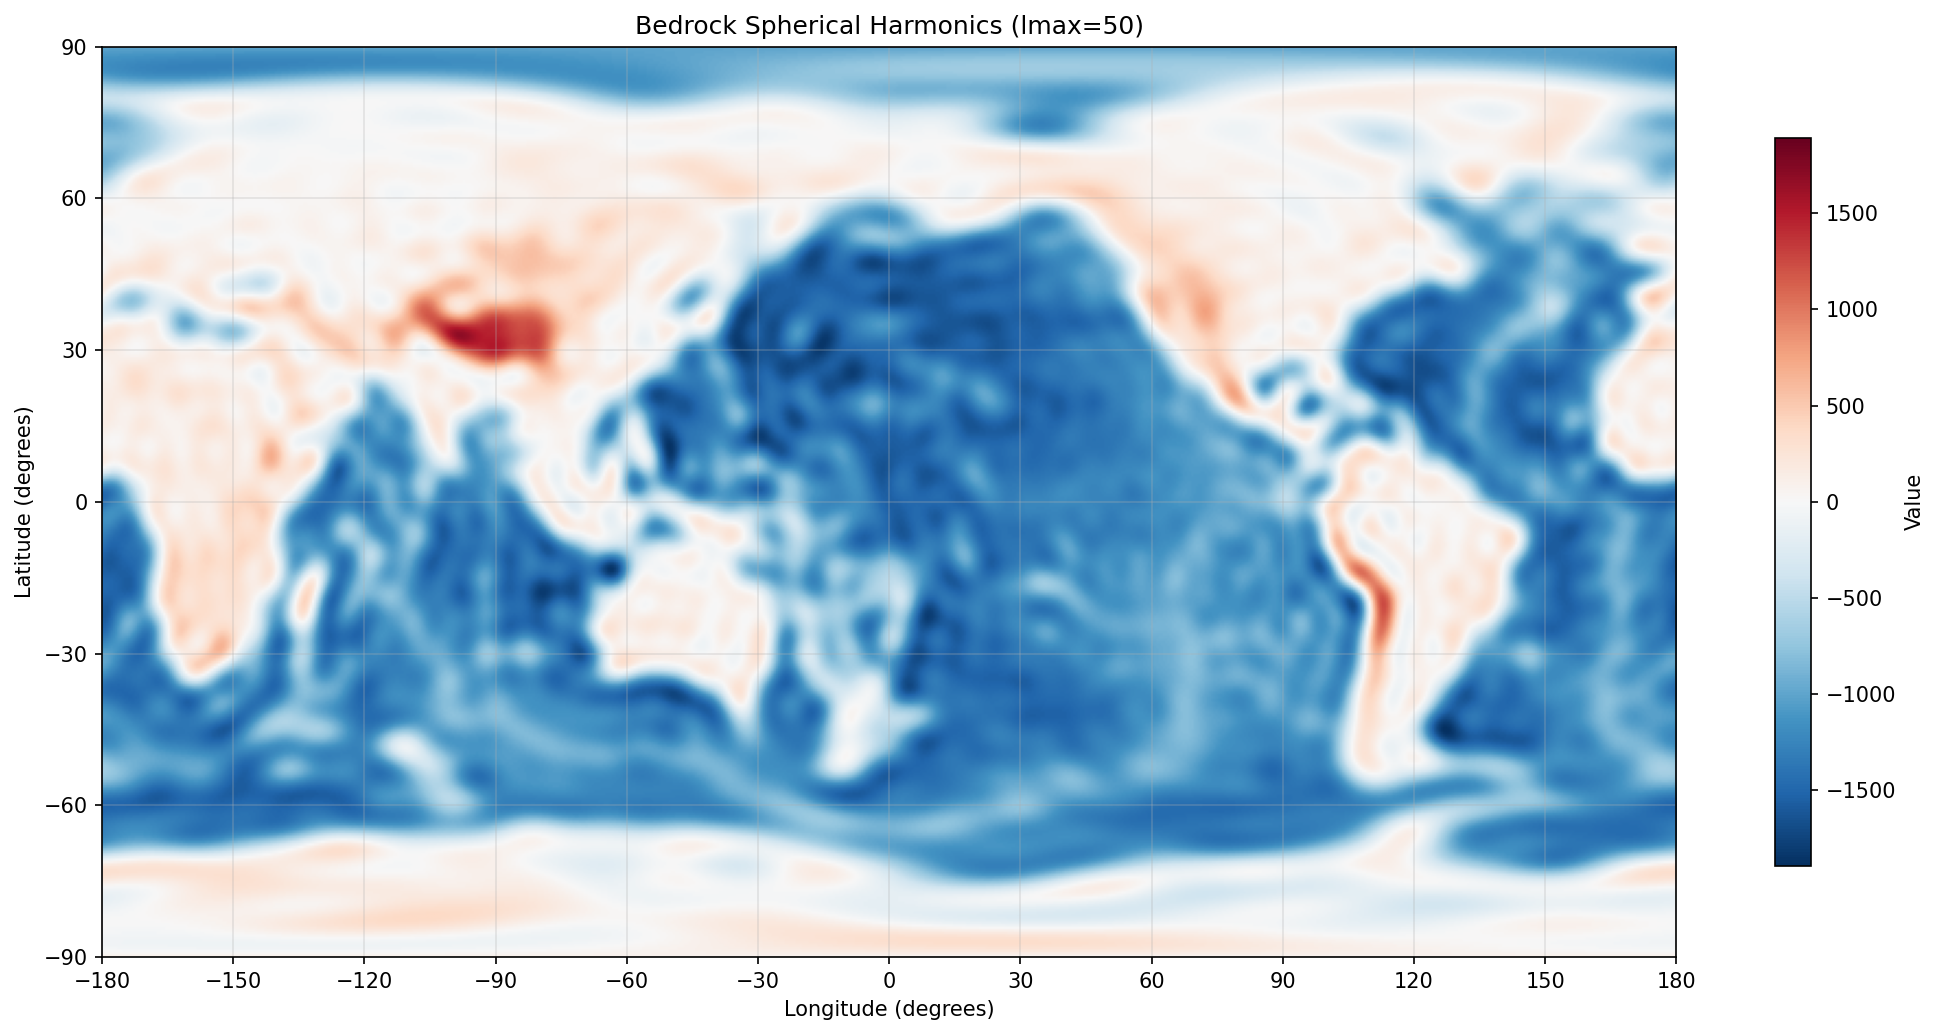
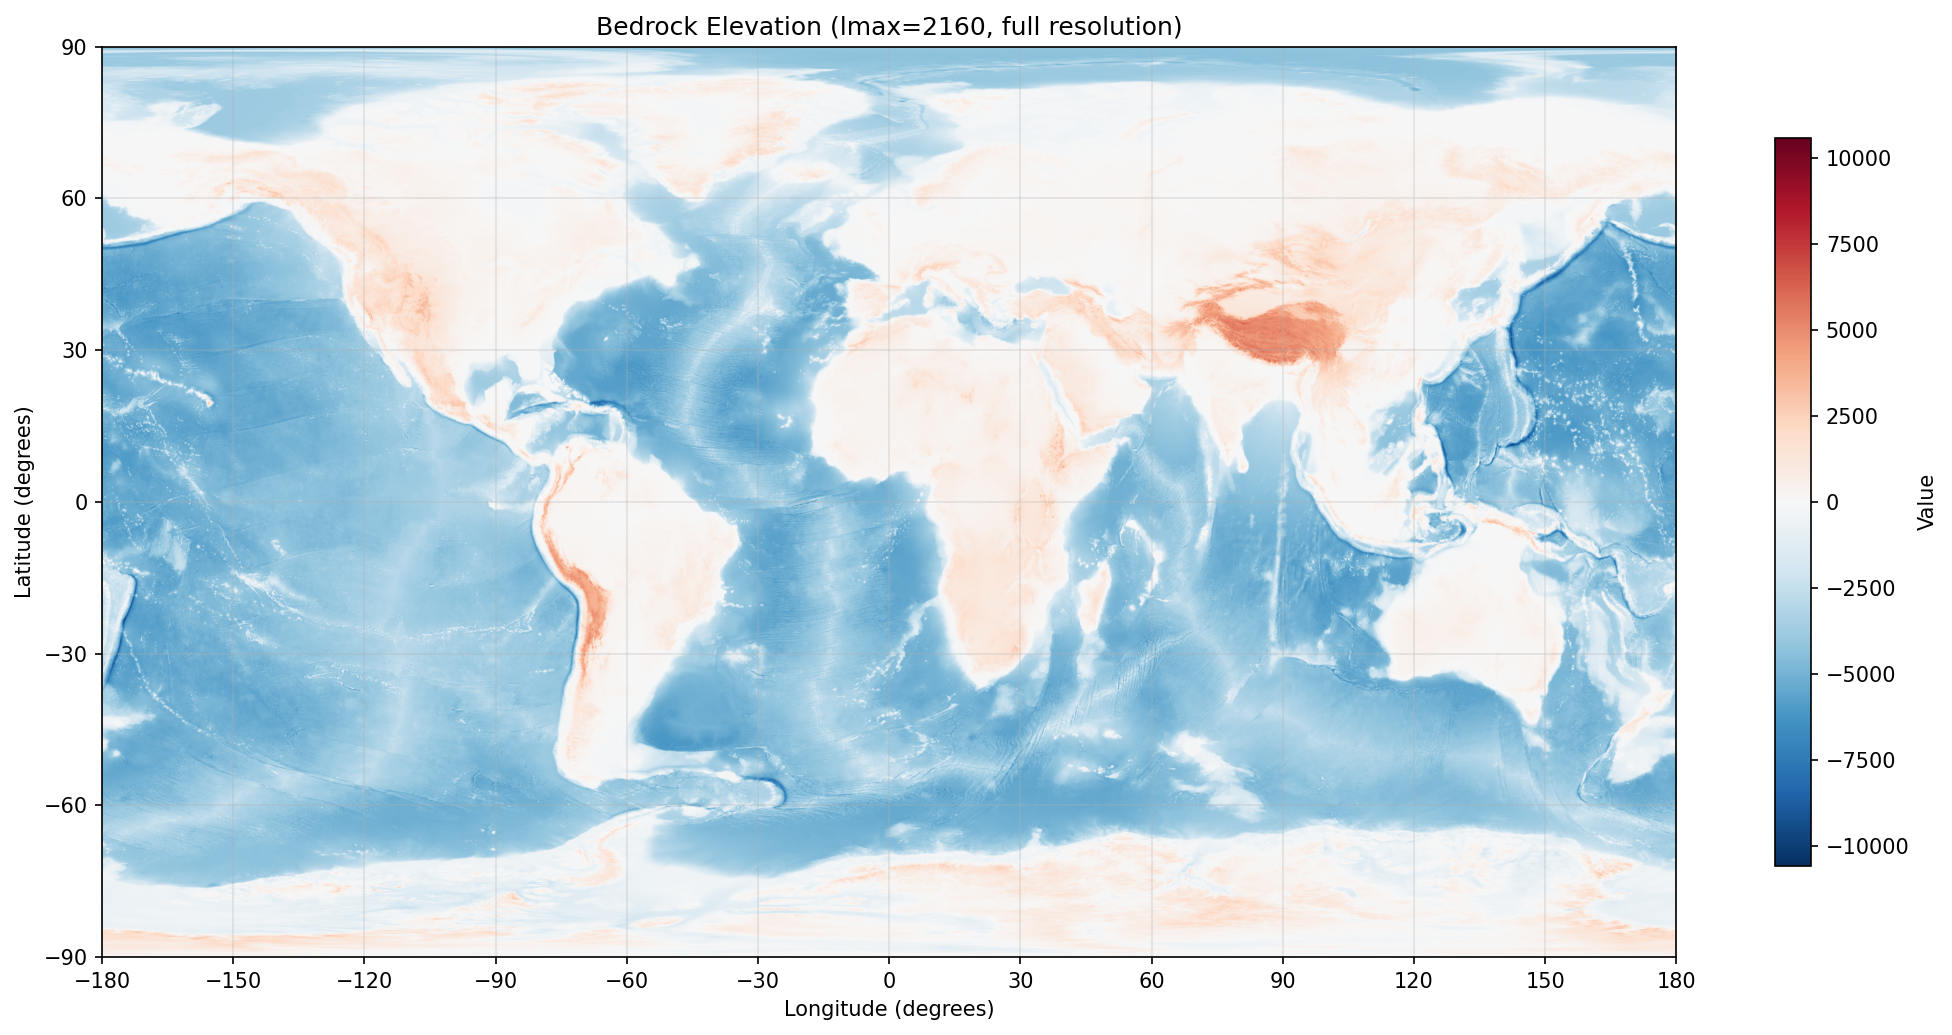
Use pyshtools SHT for efficient full-resolution map rendering

diff --git a/sources/render_bshc_map.py b/sources/render_bshc_map.py
@@ -2,181 +2,67 @@
 """
 Render spherical harmonic coefficients from a .bshc file to a 2D map projection.
 
-This script renders the SH data using an equirectangular (plate carrée) projection
-with a colormap to visualize the values. This is useful for verifying the correct
-interpretation of the BSHC file format.
+This script uses pyshtools to efficiently expand spherical harmonics using the
+proper Spherical Harmonic Transform (SHT), which is orders of magnitude faster
+than naive point-by-point evaluation.
 
 Output: PNG image with colorbar.
 """
 
 import numpy as np
-from scipy.special import sph_harm_y
+import pyshtools as pysh
 import matplotlib
 matplotlib.use('Agg')
 import matplotlib.pyplot as plt
 import os
+import time
 
 
-def load_bshc(filepath):
+def render_map_projection(coeffs, lmax, output_path, title="Spherical Harmonics Map"):
     """
-    Load spherical harmonic coefficients from a binary .bshc file.
-    
-    BSHC format (as used by SHTOOLS/Curtin University):
-    - File is composed of 8-byte little-endian floats
-    - First two values: min_degree, max_degree (lmax)
-    - Then cosine coefficients: C(0,0), C(1,0), C(1,1), C(2,0), C(2,1), ... C(lmax,lmax)
-    - Then sine coefficients: S(0,0), S(1,0), S(1,1), S(2,0), S(2,1), ... S(lmax,lmax)
+    Render SH coefficients as a 2D equirectangular map projection using pyshtools SHT.
     
     Args:
-        filepath: Path to .bshc file
-    
-    Returns:
+        coeffs: pyshtools coefficient array, shape (2, lmax+1, lmax+1)
         lmax: Maximum spherical harmonic degree
-        cosine_coeffs: 2D array of cosine coefficients, shape (lmax+1, lmax+1)
-                       cosine_coeffs[l, m] = C(l, m)
-        sine_coeffs: 2D array of sine coefficients, shape (lmax+1, lmax+1)
-                     sine_coeffs[l, m] = S(l, m)
-    """
-    with open(filepath, 'rb') as f:
-        data = f.read()
-    
-    arr = np.frombuffer(data, dtype='<f8')  # little-endian float64
-    
-    # First two values are min_degree and max_degree
-    min_deg = int(arr[0])
-    max_deg = int(arr[1])
-    lmax = max_deg
-    
-    print(f"BSHC file header: min_degree={min_deg}, max_degree={max_deg}")
-    
-    # Number of coefficients for each type (cosine or sine)
-    # For degrees 0 to lmax, we have: sum_{l=0}^{lmax} (l+1) = (lmax+1)(lmax+2)/2
-    n_coeffs = (lmax + 1) * (lmax + 2) // 2
-    
-    print(f"Expected {n_coeffs} cosine coefficients and {n_coeffs} sine coefficients")
-    print(f"Total file values: {len(arr)}, Expected: {2 + 2*n_coeffs}")
-    
-    # Extract cosine and sine coefficients
-    cosine_flat = arr[2:2 + n_coeffs]
-    sine_flat = arr[2 + n_coeffs:2 + 2 * n_coeffs]
-    
-    # Create 2D arrays indexed by [l, m]
-    cosine_coeffs = np.zeros((lmax + 1, lmax + 1), dtype=np.float64)
-    sine_coeffs = np.zeros((lmax + 1, lmax + 1), dtype=np.float64)
-    
-    # Fill in the coefficients
-    # Order in file: C(0,0), C(1,0), C(1,1), C(2,0), C(2,1), C(2,2), ...
-    idx = 0
-    for l in range(lmax + 1):
-        for m in range(l + 1):
-            cosine_coeffs[l, m] = cosine_flat[idx]
-            sine_coeffs[l, m] = sine_flat[idx]
-            idx += 1
-    
-    return lmax, cosine_coeffs, sine_coeffs
-
-
-def evaluate_real_spherical_harmonics(cosine_coeffs, sine_coeffs, theta, phi, max_lmax=None):
-    """
-    Evaluate real spherical harmonics at given angles using cosine/sine coefficients.
-    
-    Real SH expansion: f(θ, φ) = Σ_{l,m} [C(l,m) * Y_l^m_c(θ, φ) + S(l,m) * Y_l^m_s(θ, φ)]
-    
-    Args:
-        cosine_coeffs: 2D array of cosine coefficients [l, m]
-        sine_coeffs: 2D array of sine coefficients [l, m]
-        theta: Polar angle (0 to pi) - array
-        phi: Azimuthal angle (0 to 2*pi) - array
-        max_lmax: Maximum l to use (if None, use all available)
-    
-    Returns:
-        values: SH function values at each direction
-    """
-    lmax = cosine_coeffs.shape[0] - 1
-    if max_lmax is not None:
-        lmax = min(lmax, max_lmax)
-    
-    values = np.zeros_like(theta)
-    
-    for l in range(lmax + 1):
-        for m in range(l + 1):
-            c_lm = cosine_coeffs[l, m]
-            s_lm = sine_coeffs[l, m]
-            
-            # Skip if both coefficients are negligible
-            if abs(c_lm) < 1e-15 and abs(s_lm) < 1e-15:
-                continue
-            
-            # scipy's sph_harm_y(l, m, theta, phi) returns the complex SH Y_l^m
-            Y_complex = sph_harm_y(l, m, theta, phi)
-            
-            if m == 0:
-                # For m=0, Y_l^0 is already real
-                Y_real_c = np.real(Y_complex)
-                values += c_lm * Y_real_c
-            else:
-                # For m > 0, real SH are combinations of complex SH.
-                # The sqrt(2) factor accounts for normalization.
-                Y_real_c = np.sqrt(2) * np.real(Y_complex)  # cos(m*phi) component
-                Y_real_s = np.sqrt(2) * np.imag(Y_complex)  # sin(m*phi) component
-                
-                values += c_lm * Y_real_c + s_lm * Y_real_s
-    
-    return values
-
-
-def render_map_projection(cosine_coeffs, sine_coeffs, output_path, max_lmax=None, 
-                          resolution=360, title="Spherical Harmonics Map"):
-    """
-    Render SH coefficients as a 2D equirectangular map projection.
-    
-    Args:
-        cosine_coeffs: 2D array of cosine coefficients
-        sine_coeffs: 2D array of sine coefficients
         output_path: Path to save PNG
-        max_lmax: Maximum l to use for evaluation
-        resolution: Number of longitude points (latitude will be resolution/2)
         title: Plot title
     """
-    # Create grid of lat/lon coordinates
-    n_lon = resolution
-    n_lat = resolution // 2
+    # Use pyshtools' efficient SHT to expand coefficients to a grid
+    # sampling=2 gives an equally-spaced grid in latitude and longitude
+    # The grid size is automatically determined by lmax: (2*lmax+2) x (4*lmax+4)
+    print(f"Expanding SH coefficients using SHT (lmax={lmax})...")
+    start_time = time.time()
     
-    # Longitude: -180 to 180 degrees -> phi: 0 to 2*pi
-    lon = np.linspace(-180, 180, n_lon)
-    # Latitude: -90 to 90 degrees -> theta: pi to 0 (note: reversed for theta)
-    lat = np.linspace(-90, 90, n_lat)
+    grid = pysh.expand.MakeGridDH(coeffs, sampling=2)
     
-    lon_grid, lat_grid = np.meshgrid(lon, lat)
+    elapsed = time.time() - start_time
+    print(f"SHT completed in {elapsed:.2f} seconds")
+    print(f"Grid shape: {grid.shape}")
+    print(f"Value range: [{grid.min():.4f}, {grid.max():.4f}]")
     
-    # Convert to spherical coordinates (theta, phi)
-    # theta: colatitude (0 at north pole, pi at south pole)
-    # phi: azimuthal angle (0 to 2*pi)
-    theta = np.deg2rad(90 - lat_grid)  # Convert latitude to colatitude
-    phi = np.deg2rad(lon_grid)
-    phi = np.where(phi < 0, phi + 2*np.pi, phi)  # Ensure phi is in [0, 2*pi]
+    # Grid is in colatitude order (north pole first), we need to flip for plotting
+    # Also, longitude starts at 0, we need to shift to center on 0
+    n_lat, n_lon = grid.shape
     
-    # Evaluate SH at each grid point
-    print(f"Evaluating SH on {n_lon}x{n_lat} grid...")
-    values = evaluate_real_spherical_harmonics(cosine_coeffs, sine_coeffs, 
-                                               theta.flatten(), phi.flatten(), 
-                                               max_lmax=max_lmax)
-    values = values.reshape((n_lat, n_lon))
+    # Shift longitude so 0 is in the center
+    grid = np.roll(grid, n_lon // 2, axis=1)
     
-    print(f"Value range: [{values.min():.4f}, {values.max():.4f}]")
+    # Flip latitude so south pole is at bottom
+    grid = np.flipud(grid)
     
     # Create figure
     fig, ax = plt.subplots(figsize=(14, 7), dpi=150)
     
     # Use a diverging colormap centered at 0
-    vmax = max(abs(values.min()), abs(values.max()))
+    vmax = max(abs(grid.min()), abs(grid.max()))
     
     # Plot the data
-    im = ax.imshow(values, extent=[-180, 180, -90, 90], origin='lower',
+    im = ax.imshow(grid, extent=[-180, 180, -90, 90], origin='lower',
                    cmap='RdBu_r', vmin=-vmax, vmax=vmax, aspect='auto')
     
     # Add colorbar
-    cbar = plt.colorbar(im, ax=ax, label='Value', shrink=0.8)
+    plt.colorbar(im, ax=ax, label='Value', shrink=0.8)
     
     # Labels and title
     ax.set_xlabel('Longitude (degrees)')
@@ -193,17 +79,18 @@ def render_map_projection(cosine_coeffs, sine_coeffs, output_path, max_lmax=None
     plt.close()
     
     print(f"Map saved to: {output_path}")
+    print(f"Image size: {grid.shape[1]}x{grid.shape[0]} pixels")
 
 
 def main():
     """Main function to render BSHC file as a map projection."""
     import argparse
     
-    parser = argparse.ArgumentParser(description='Render BSHC to map projection')
+    parser = argparse.ArgumentParser(description='Render BSHC to map projection using SHT')
     parser.add_argument('--input', '-i', required=True, help='Input BSHC file')
     parser.add_argument('--output', '-o', required=True, help='Output PNG file')
-    parser.add_argument('--max-lmax', type=int, default=50, help='Maximum L to use for SH evaluation (default: 50)')
-    parser.add_argument('--resolution', type=int, default=720, help='Longitude resolution (default: 720)')
+    parser.add_argument('--max-lmax', type=int, default=None, 
+                        help='Maximum L to use (default: use all harmonics from file)')
     parser.add_argument('--title', '-t', default=None, help='Plot title')
     args = parser.parse_args()
     
@@ -215,17 +102,30 @@ def main():
     output_path = os.path.join(repo_root, args.output) if not os.path.isabs(args.output) else args.output
     
     print(f"Loading BSHC file: {input_path}")
-    lmax, cosine_coeffs, sine_coeffs = load_bshc(input_path)
-    print(f"Loaded SH coefficients up to lmax={lmax}")
-    print(f"Cosine coeff range: [{cosine_coeffs.min():.4f}, {cosine_coeffs.max():.4f}]")
-    print(f"Sine coeff range: [{sine_coeffs.min():.4f}, {sine_coeffs.max():.4f}]")
+    start_time = time.time()
+    
+    # Use pyshtools' native BSHC reader
+    coeffs, lmax_file = pysh.shio.read_bshc(input_path)
+    
+    elapsed = time.time() - start_time
+    print(f"Loaded SH coefficients in {elapsed:.2f} seconds")
+    print(f"File contains lmax={lmax_file} ({(lmax_file+1)*(lmax_file+2)//2:,} coefficients per type)")
+    print(f"Coeffs shape: {coeffs.shape}")
+    
+    # Optionally truncate to max_lmax
+    if args.max_lmax is not None and args.max_lmax < lmax_file:
+        lmax = args.max_lmax
+        coeffs = coeffs[:, :lmax+1, :lmax+1]
+        print(f"Truncating to lmax={lmax}")
+    else:
+        lmax = lmax_file
+        print(f"Using all harmonics (lmax={lmax})")
     
     # Generate title if not provided
-    title = args.title or f"Spherical Harmonics (lmax={min(lmax, args.max_lmax)})"
+    title = args.title or f"Spherical Harmonics (lmax={lmax})"
     
-    # Render the map
-    render_map_projection(cosine_coeffs, sine_coeffs, output_path, 
-                         max_lmax=args.max_lmax, resolution=args.resolution, title=title)
+    # Render the map using efficient SHT
+    render_map_projection(coeffs, lmax, output_path, title=title)
     
     print("Done!")
 
